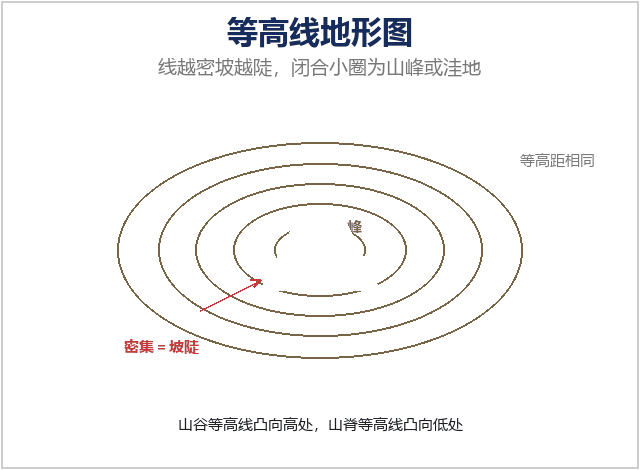
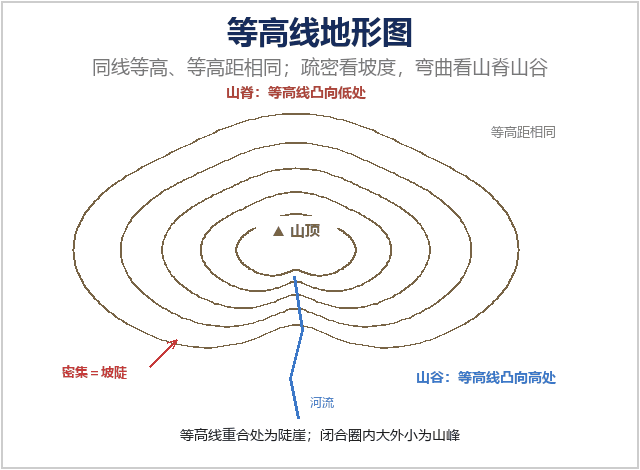
发布 v1.11.0

diff --git a/tools/subjects/geography.py b/tools/subjects/geography.py
@@ -6,7 +6,7 @@ TREE = {
     "第一单元 地球与地图": {
         "1.1 地图与等高线": [
             {"t": "地图三要素与比例尺", "body": "地图三要素：比例尺、方向、图例和注记。\n比例尺=图上距离/实地距离。\n比例尺越大，图幅相同所示范围越小、内容越详细。\n方向判断：一般定向法、指向标定向法、经纬网定向法。\n比例尺缩放：放大到 n 倍，图幅面积变为 n² 倍。"},
-            {"t": "等高线地形图的判读", "body": "等高线密集处坡陡，稀疏处坡缓。\n山脊等高线向低处凸出，山谷向高处凸出。\n鞍部是两山峰之间的低地，陡崖处等高线重合。\n盆地等高线闭合且数值由外向内减小。\n河流发育在山谷，流向与等高线弯曲方向相反。"},
+            {"t": "等高线地形图的判读", "body": "等高线：海拔相同的点连成的闭合曲线。基本特征——同线等高、等高距全图一致、不相交（陡崖处重合）。\n判读五看：看数值定海拔，看疏密定坡度，看弯曲定山脊山谷，看闭合定山峰盆地，看重合定陡崖。\n山脊等高线向低处凸出，山谷向高处凸出。\n鞍部是两山峰之间的低地，陡崖处多条等高线重合。\n盆地等高线闭合且数值由外向内减小；河流发育在山谷，流向与等高线弯曲方向相反。"},
             {"t": "等高线图的应用", "body": "选坝址：峡谷处工程量小、蓄水量大，但要注意移民淹没。\n选引水线路：从高处到低处，可自流。\n选交通线：沿等高线延伸，坡度平缓。\n选居民点：地势平坦、靠近水源、避开洪水位。\n农业布局：平原种粮、坡地种果林、湖泊养鱼。"},
             {"t": "地形剖面图", "body": "剖面图能直观显示某条线上的地势起伏。\n绘制依据等高线与剖面线的交点。\n注意垂直比例尺一般大于水平比例尺以突出起伏。\n通视问题：中间有山脊或凸坡则不可见。\n凹坡可通视，凸坡不可通视。"},
             {"t": "比例尺的缩放与计算", "body": "比例尺=图上距离/实地距离，放大到 n 倍则比例尺乘以 n，图幅面积变为 n^{2} 倍。\n比例尺越大，表示范围越小、内容越详细；比例尺越小，范围越大、内容越概括。\n缩放后实地距离不变，图上距离随之改变，计算时要先统一单位（1 km=100000 cm）。\n比例尺相同比较图幅面积可判断实际范围大小。\n常见错误是忘记面积是边长的平方关系，导致结果差平方倍。"},

diff --git a/tools/gen_images.py b/tools/gen_images.py
@@ -903,18 +903,39 @@ def h_war():
 
 
 def e_contour():
-    c = C("等高线地形图", "线越密坡越陡，闭合小圈为山峰或洼地")
-    ox, oy = 320, 250
-    for i, r in enumerate((150, 120, 92, 64, 34)):
-        c.d.ellipse([ox - r * 1.35, oy - r * 0.72, ox + r * 1.35, oy + r * 0.72], outline=(120, 100, 70), width=2)
-    c.circle(ox + 4, oy - 4, 4, (120, 100, 70), (120, 100, 70), 1)
-    c.t(ox + 12, oy - 16, "山峰", 15, True, (120, 100, 70), "lb")
-    # 山谷（等高线凸向高处）
-    c.d.polygon([(ox - 60, oy + 40), (ox - 20, oy - 40), (ox + 20, oy - 40), (ox + 60, oy + 40)], fill="white")
-    c.t(ox + 200, oy - 90, "等高距相同", 15, False, GREY, "lm")
-    c.t(ox - 196, oy + 96, "密集＝坡陡", 15, True, RED, "lm")
-    c.arrow(ox - 120, oy + 60, ox - 60, oy + 30, 2, RED, 10)
-    c.rich(W // 2, H - 40, "山谷等高线凸向高处，山脊等高线凸向低处", 15)
+    c = C("等高线地形图", "同线等高、等高距相同；疏密看坡度，弯曲看山脊山谷")
+    ox, oy = 296, 250
+    dark = (120, 100, 70)
+    steps = 240
+
+    def pt(theta, base):
+        d_up = abs((theta + math.pi / 2 + math.pi) % (2 * math.pi) - math.pi)
+        d_dn = abs((theta - math.pi / 2 + math.pi) % (2 * math.pi) - math.pi)
+        k = 1 + 0.20 * math.exp(-(d_up ** 2) / 0.16) - 0.34 * math.exp(-(d_dn ** 2) / 0.10)
+        return (ox + base * 1.48 * math.cos(theta) * k,
+                oy + base * 0.76 * math.sin(theta) * k)
+
+    for base in (150, 118, 90, 64, 40):
+        pts = [pt(i * 2 * math.pi / steps, base) for i in range(steps + 1)]
+        c.d.line(pts, fill=dark, width=2, joint="curve")
+
+    # 河流：沿山谷向下流出
+    c.d.line([(ox - 2, oy + 26), (ox + 6, oy + 80), (ox - 6, oy + 128), (ox + 2, oy + 168)],
+             fill=(60, 120, 200), width=3, joint="curve")
+    c.t(ox + 14, oy + 152, "河流", 12, False, (60, 120, 200), "lm")
+
+    # 山顶
+    c.rect(ox - 40, oy - 34, ox + 40, oy - 8, fill="white", outline="white", w=0)
+    c.t(ox, oy - 30, "▲ 山顶", 15, True, dark, "ma")
+
+    # 山脊（上方外凸）/ 山谷（下方内凹）
+    c.t(ox, 82, "山脊：等高线凸向低处", 14, True, (170, 70, 60), "ma")
+    c.t(556, 376, "山谷：等高线凸向高处", 14, True, (60, 120, 200), "rm")
+
+    c.t(556, 132, "等高距相同", 13, False, GREY, "rm")
+    c.t(62, 372, "密集＝坡陡", 13, True, RED, "lm")
+    c.arrow(150, 366, 176, 340, 2, RED, 9)
+    c.rich(W // 2, H - 30, "等高线重合处为陡崖；闭合圈内大外小为山峰", 14)
     save(c, "e_contour", acc)
 
 

diff --git a/tools/build_authored.py b/tools/build_authored.py
@@ -274,6 +274,8 @@ MANUAL_PAIRS = [
     ("geography", "城市功能区", "城市功能分区"),
     ("geography", "农业区位因素及其变化", "农业区位因素"),
     ("geography", "农业可持续发展措施", "农业的可持续发展"),
+    ("geography", "等高线地形图的判读", "等高线判读的常见技巧"),
+    ("geography", "等高线图的应用", "等高线地形图的应用"),
     ("geography", "中国的自然资源特点", "中国的自然资源"),
     ("geography", "农业可持续发展措施", "农业可持续发展"),
     ("geography", "气候类型的判读", "气候类型判读的步骤"),
